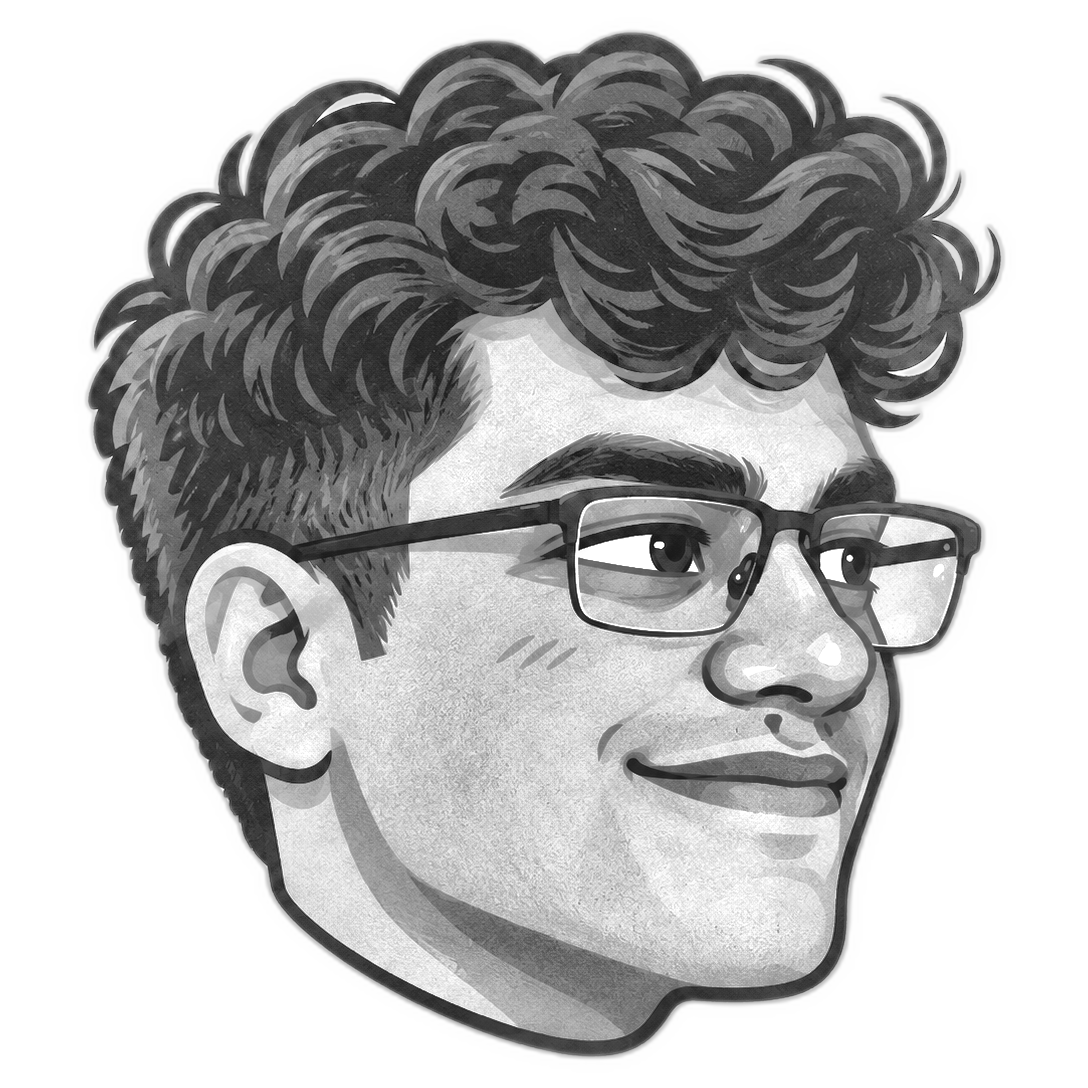
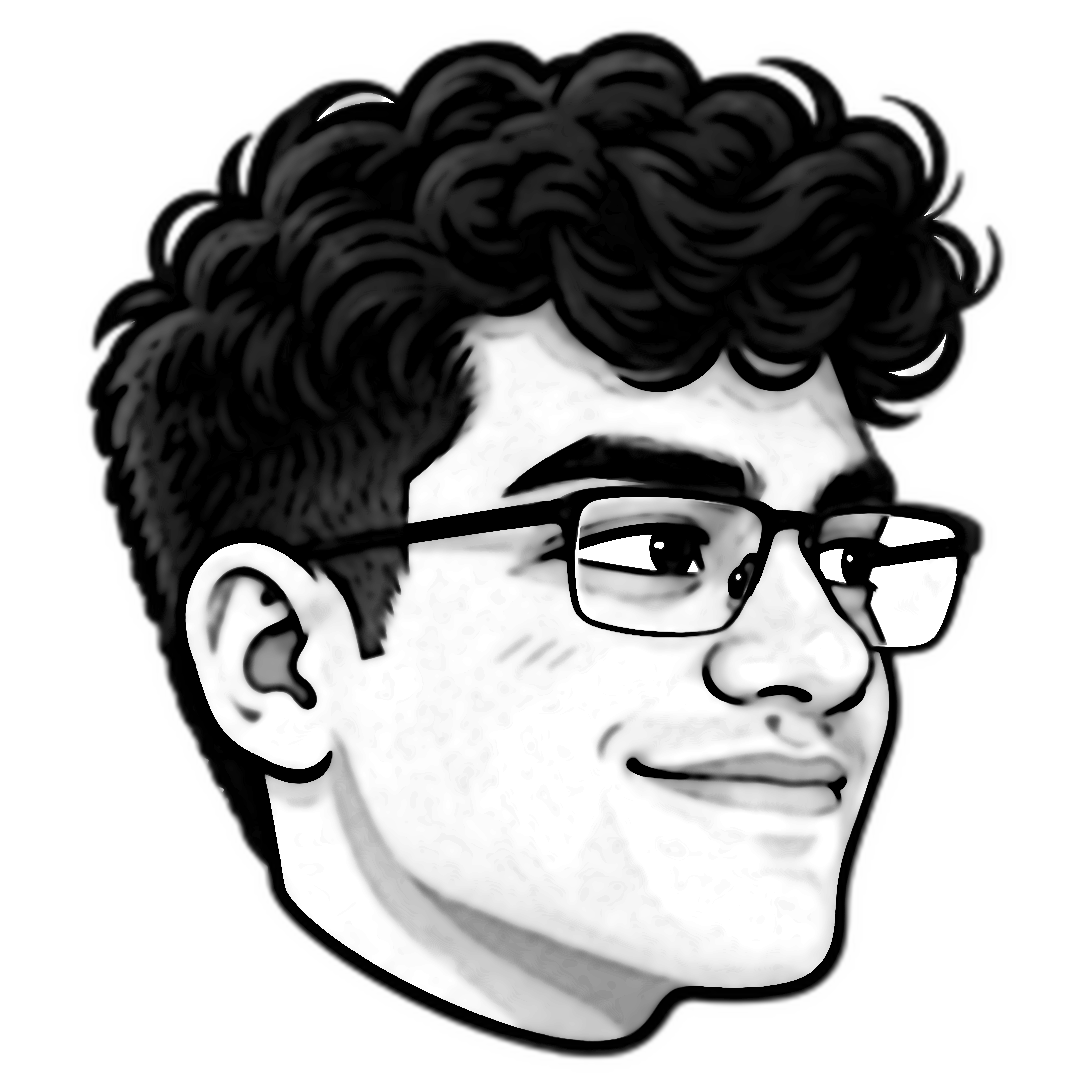
Sharpen ASCII portrait so the eyes read
- prep_photo.py: swap CLAHE for an illustration-tuned prep (bilateral
  smoothing kills paper-texture noise, DoG ridges darken line work so
  pupils, eyelids and glasses survive ascii averaging)
- make_ascii_svg.py: 180 cols by default (was 100), cells scale to keep
  the same canvas; typing still finishes in ~6s
- show the portrait at 640px

diff --git a/scripts/prep_photo.py b/scripts/prep_photo.py
@@ -1,14 +1,15 @@
 """
-Prepare a portrait photo for clean ASCII conversion:
+Prepare the dp (a flat illustration) for clean ASCII conversion:
   1. remove the background (rembg) so the subject is isolated
-  2. boost LOCAL contrast (CLAHE) so a flatly-lit face gains highlights and
-     shadows -- this is what turns a dark blob into a recognizable face
-  3. composite the subject onto pure white so the background reads as blank
-     (white -> spaces in the ascii ramp)
-  4. crop square around the subject so the head fills the ascii frame
+  2. bilateral-smooth away the paper texture (otherwise skin turns to `::::`
+     noise and the eyes drown in it) while keeping the drawn lines sharp
+  3. stretch tones so skin lands near white and hair/lines stay dark
+  4. darken the line work (difference-of-gaussians ridges) -- eyelids, pupils,
+     glasses frame and smile are thin dark strokes that plain luminance
+     averaging washes out at ascii resolution
+  5. composite onto white and crop square around the subject
 
 Output: source-prepped.png (grayscale), consumed by make_ascii_svg.py.
-Run once whenever the source photo changes; the ascii SVG itself is static.
 
     python scripts/prep_photo.py <input.png> [output.png]
 """
@@ -24,26 +25,33 @@ HERE = os.path.dirname(os.path.abspath(__file__))
 INP = sys.argv[1] if len(sys.argv) > 1 else os.path.join(HERE, "..", "source-photo.png")
 OUT = sys.argv[2] if len(sys.argv) > 2 else os.path.join(HERE, "..", "source-prepped.png")
 
+LINE_WEIGHT = 0.6     # how hard drawn lines are pushed toward black
+
 # 1. cut out the subject
 cut = remove(Image.open(INP).convert("RGBA"))
 rgb = np.array(cut.convert("RGB"))
 alpha = np.array(cut.split()[-1])                 # 0 = background
-
-# 2. local-contrast the luminance (CLAHE)
 gray = cv2.cvtColor(rgb, cv2.COLOR_RGB2GRAY)
-clahe = cv2.createCLAHE(clipLimit=2.6, tileGridSize=(8, 8))
-gray = clahe.apply(gray)
 
-# a touch of global lift so the face sits in the sparse end of the ramp
-gray = cv2.convertScaleAbs(gray, alpha=1.05, beta=18)
+# 2. smooth texture, keep edges
+smooth = gray
+for _ in range(3):
+    smooth = cv2.bilateralFilter(smooth, 9, 40, 9)
 
-# 3. paste onto white using the alpha mask (feathered a hair to avoid a halo)
-mask = (alpha.astype(np.float32) / 255.0)
-mask = cv2.GaussianBlur(mask, (0, 0), 1.0)
-out = gray.astype(np.float32) * mask + 255.0 * (1.0 - mask)
-out = np.clip(out, 0, 255).astype(np.uint8)
+# 3. tone stretch over the subject only
+lo, hi = np.percentile(smooth[alpha > 128], [2, 92])
+tone = np.clip((smooth.astype(np.float32) - lo) / (hi - lo), 0, 1)
 
-# 4. square crop around the subject's bounding box (+ a small margin)
+# 4. dark-on-light ridges -> darken
+fine = cv2.GaussianBlur(smooth, (0, 0), 1.5).astype(np.float32)
+coarse = cv2.GaussianBlur(smooth, (0, 0), 6).astype(np.float32)
+lines = np.clip((coarse - fine) / 40.0, 0, 1)
+out = np.clip(tone - LINE_WEIGHT * lines, 0, 1) * 255
+
+# 5. paste onto white (feathered a hair to avoid a halo), square crop
+mask = cv2.GaussianBlur(alpha.astype(np.float32) / 255.0, (0, 0), 1.0)
+out = out * mask + 255.0 * (1.0 - mask)
+
 ys, xs = np.where(alpha > 20)
 side = max(xs.max() - xs.min(), ys.max() - ys.min()) + 60
 cx, cy = (xs.min() + xs.max()) // 2, (ys.min() + ys.max()) // 2
@@ -51,8 +59,7 @@ canvas = np.full((side, side), 255, np.uint8)
 x0, y0 = cx - side // 2, cy - side // 2
 sx0, sy0 = max(x0, 0), max(y0, 0)
 sx1, sy1 = min(x0 + side, out.shape[1]), min(y0 + side, out.shape[0])
-canvas[sy0 - y0:sy1 - y0, sx0 - x0:sx1 - x0] = out[sy0:sy1, sx0:sx1]
-out = canvas
+canvas[sy0 - y0:sy1 - y0, sx0 - x0:sx1 - x0] = out[sy0:sy1, sx0:sx1].astype(np.uint8)
 
-Image.fromarray(out, mode="L").save(OUT)
-print("wrote", OUT, out.shape)
+Image.fromarray(canvas, mode="L").save(OUT)
+print("wrote", OUT, canvas.shape)

diff --git a/scripts/make_ascii_svg.py b/scripts/make_ascii_svg.py
@@ -23,10 +23,13 @@ HERE = os.path.dirname(os.path.abspath(__file__))
 SRC = sys.argv[1] if len(sys.argv) > 1 else os.path.join(HERE, "..", "source-prepped.png")
 OUT = sys.argv[2] if len(sys.argv) > 2 else os.path.join(HERE, "..", "avi-ascii.svg")
 
-COLS = 100
-ROWS = 53
-CELL_W = 8
-CELL_H = 15
+# more columns = more detail (eyes need ~6+ chars across to read). the art
+# stays ART_W px wide either way; cells shrink, keeping a ~1:1.875 char aspect.
+COLS = int(os.environ.get("COLS", 180))
+ART_W_TARGET = 800
+CELL_W = ART_W_TARGET / COLS
+CELL_H = CELL_W * 15 / 8
+ROWS = round(COLS * 8 / 15)
 RAMP = " .`:-=+*cs#%@"  # bright(sparse) -> dark(dense); leading space clears bg
 
 # the prepped image already has bg removed + CLAHE local contrast, so only
@@ -53,8 +56,8 @@ INK = "#c9d1d9"      # the single ascii color (matches Andrew6rant)
 CURSOR = "#c9d1d9"
 
 # ---- reveal timing (one-shot; a cursor rasters top -> bottom) -------------
-ROW_DUR = 0.11
-STAGGER = 0.11       # == ROW_DUR -> a single cursor sweeping down
+ROW_DUR = 5.8 / ROWS  # whole portrait prints in ~6s at any resolution
+STAGGER = ROW_DUR       # == ROW_DUR -> a single cursor sweeping down
 
 # ---- 1. sample the image into a COLS x ROWS grayscale grid ----------------
 im = Image.open(SRC).convert("L")               # grayscale

diff --git a/README.md b/README.md
@@ -5,7 +5,7 @@
 
 <h3><code>avi@github ~ $ whoami</code></h3>
 
-<img src="./avi-ascii.svg" width="560" alt="Avi Vashishta — ASCII portrait" />
+<img src="./avi-ascii.svg" width="640" alt="Avi Vashishta — ASCII portrait" />
 
 <br>
 <br>
